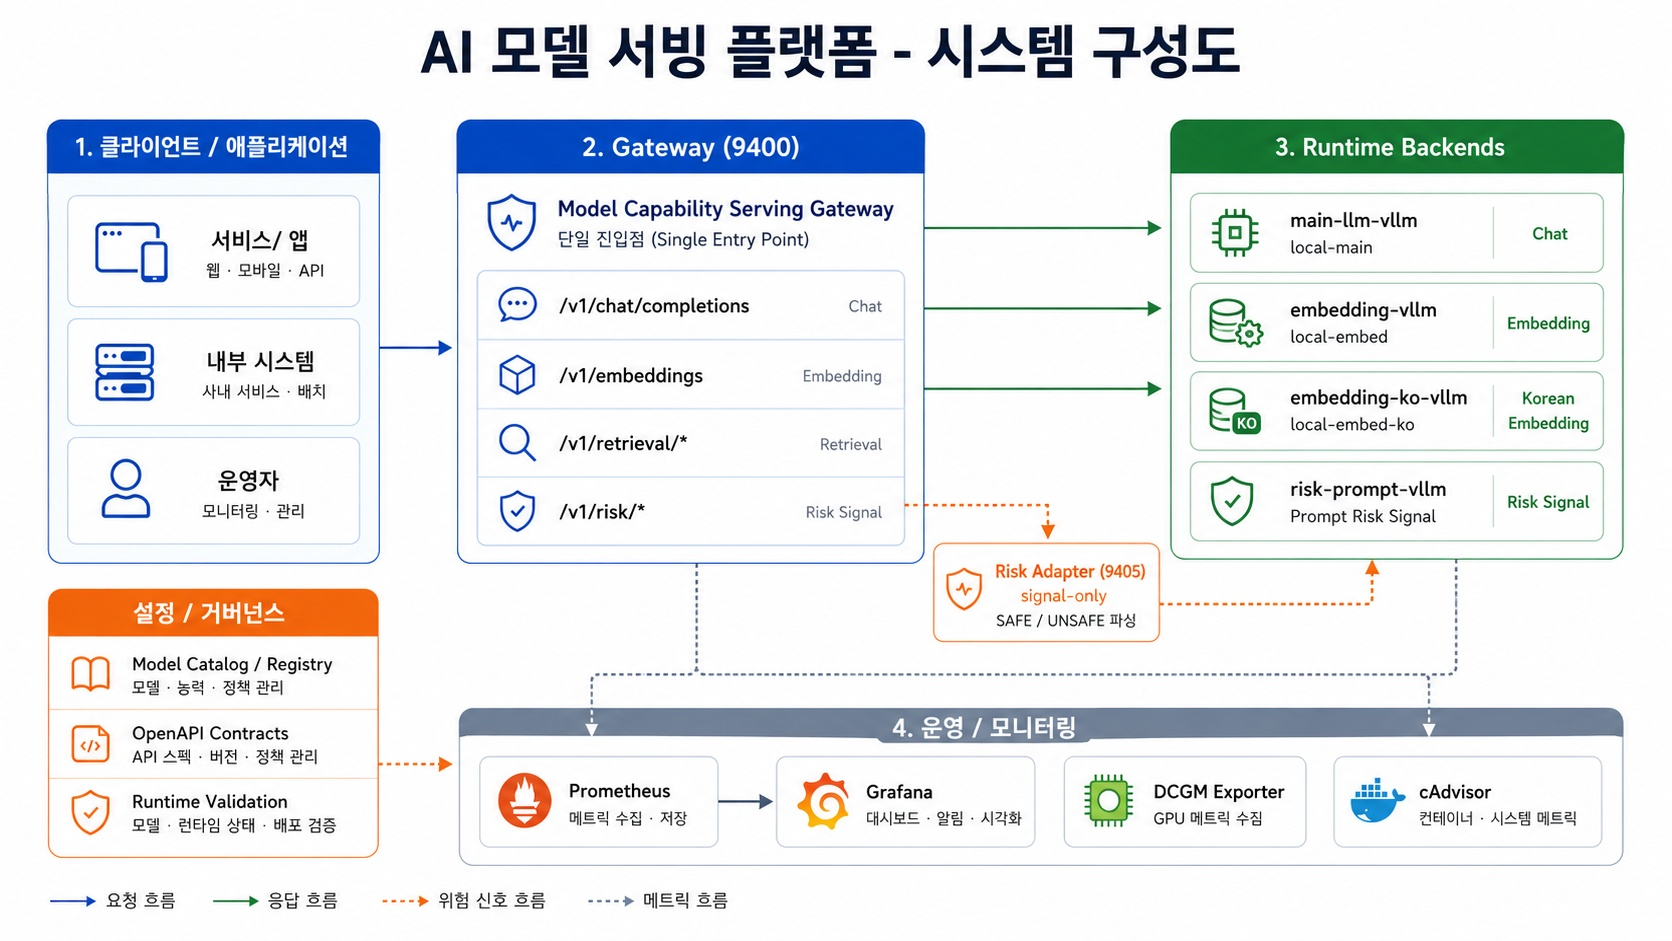
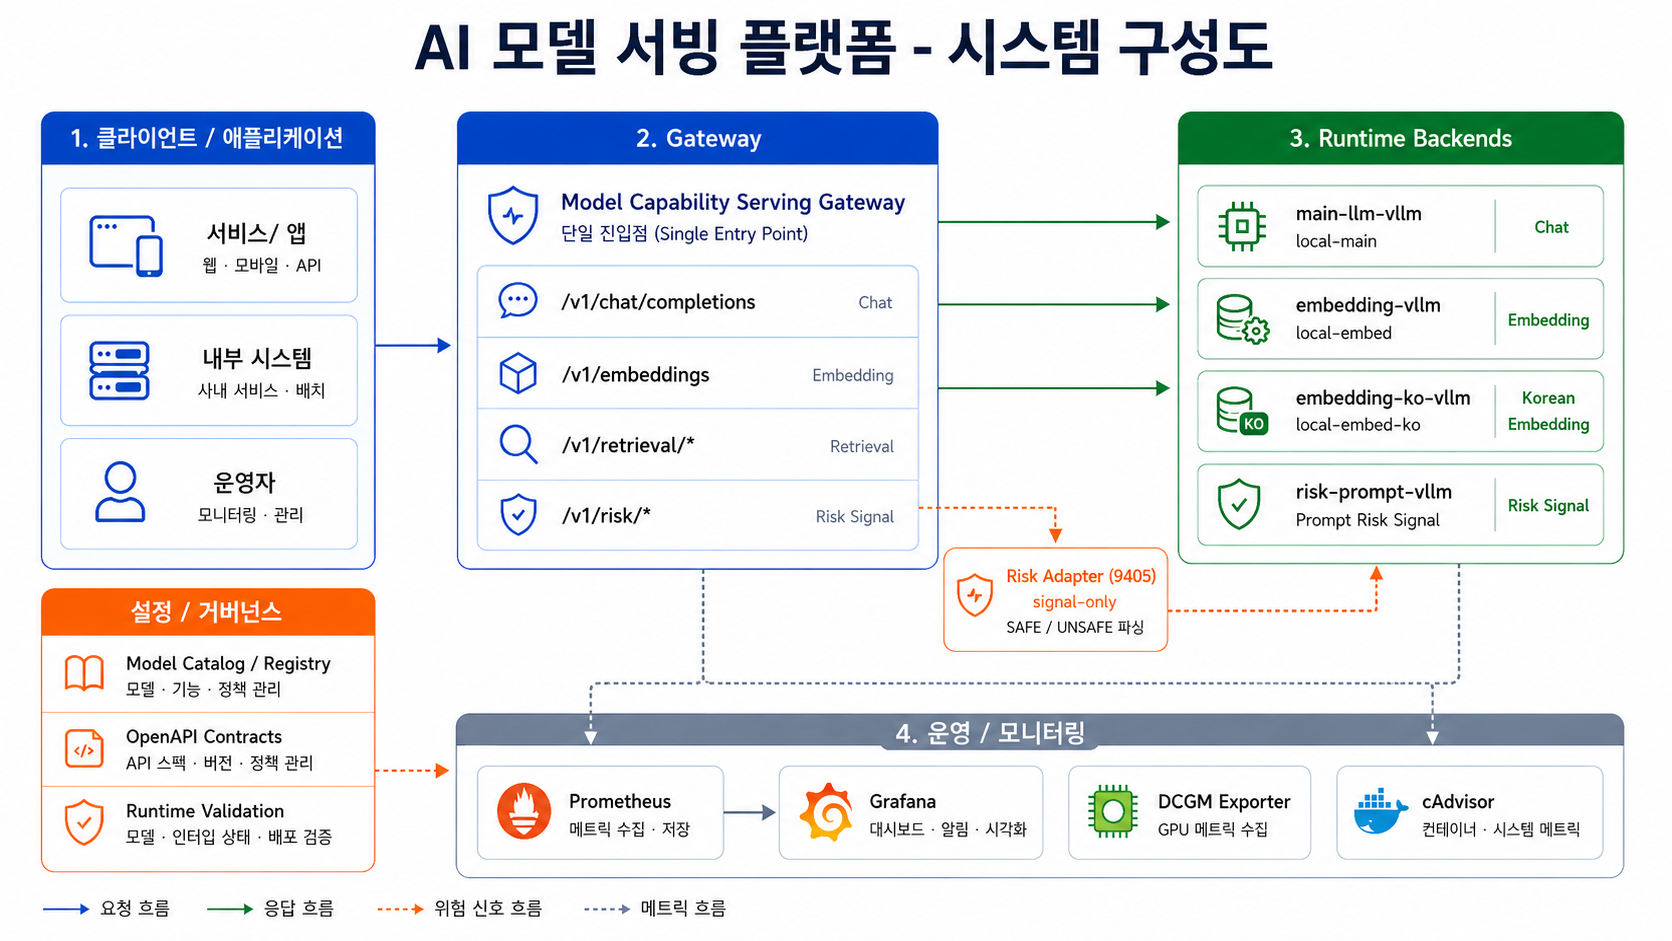
fix: copy 작업 롤백 preview copy -> raw copy와 동일한 작업으로 변경

Changed region(s): [[0.0, 0.0, 0.9952, 0.9862], [0.1244, 0.3698, 0.2177, 0.4315]]

diff --git a/src/ai_model_serving/docs_ui.py b/src/ai_model_serving/docs_ui.py
@@ -16,133 +16,70 @@ def scalar_html(openapi_url: str, title: str) -> str:
     <title>{title}</title>
     <meta charset="utf-8" />
     <meta name="viewport" content="width=device-width, initial-scale=1" />
-    <style>
-      body {{
-        margin: 0;
-      }}
-      .docs-toolbar {{
-        position: sticky;
-        top: 0;
-        z-index: 1000;
-        display: flex;
-        gap: 12px;
-        align-items: center;
-        padding: 8px 16px;
-        border-bottom: 1px solid #E5E7EB;
-        background: #FFFFFF;
-        font-family: system-ui, -apple-system, BlinkMacSystemFont, "Segoe UI", sans-serif;
-        font-size: 13px;
-        color: #374151;
-      }}
-      .docs-toolbar button {{
-        border: 1px solid #D1D5DB;
-        border-radius: 6px;
-        background: #F9FAFB;
-        padding: 5px 10px;
-        cursor: pointer;
-      }}
-      .docs-toolbar button:disabled {{
-        opacity: 0.45;
-        cursor: not-allowed;
-      }}
-      .docs-toolbar .notice {{
-        color: #6B7280;
-      }}
-    </style>
+    <style>body {{ margin: 0; }}</style>
   </head>
   <body>
-    <div class="docs-toolbar">
-      <button id="copy-raw-response" disabled>Copy raw response</button>
-      <span id="copy-raw-status" class="notice">
-        긴 응답은 Preview Copy 대신 Raw 또는 Copy raw response를 사용하세요.
-      </span>
-    </div>
-
     <div id="api-reference"></div>
-
     <script src="https://cdn.jsdelivr.net/npm/@scalar/api-reference@{SCALAR_VERSION}"></script>
     <script>
       const OPENAPI_URL = {json.dumps(openapi_url)};
       let lastRawResponse = null;
+      let overrideNextWrite = false;
 
-      const copyButton = document.getElementById("copy-raw-response");
-      const statusLabel = document.getElementById("copy-raw-status");
-
-      function normalizeUrl(input) {{
-        try {{
-          if (typeof input === "string") {{
-            return new URL(input, window.location.href);
-          }}
-          if (input && input.url) {{
-            return new URL(input.url, window.location.href);
-          }}
-        }} catch (_) {{}}
-        return null;
-      }}
+      const originalWriteText = navigator.clipboard.writeText.bind(navigator.clipboard);
 
       function isOpenApiDocumentRequest(input) {{
-        const requestUrl = normalizeUrl(input);
-        const specUrl = new URL(OPENAPI_URL, window.location.href);
-        return requestUrl && requestUrl.pathname === specUrl.pathname;
+        try {{
+          const reqUrl = new URL(typeof input === "string" ? input : input.url, window.location.href);
+          const specUrl = new URL(OPENAPI_URL, window.location.href);
+          return reqUrl.pathname === specUrl.pathname;
+        }} catch (_) {{ return false; }}
       }}
 
       function isStreamingRequest(init) {{
         try {{
-          if (!init || !init.body || typeof init.body !== "string") {{
-            return false;
-          }}
-          const body = JSON.parse(init.body);
-          return body && body.stream === true;
-        }} catch (_) {{
-          return false;
-        }}
+          if (!init?.body || typeof init.body !== "string") return false;
+          return JSON.parse(init.body)?.stream === true;
+        }} catch (_) {{ return false; }}
       }}
 
       async function captureRawResponse(input, response) {{
-        if (isOpenApiDocumentRequest(input)) {{
-          return;
-        }}
-
+        if (isOpenApiDocumentRequest(input)) return;
         try {{
-          const cloned = response.clone();
-          const text = await cloned.text();
-
-          lastRawResponse = text;
-          copyButton.disabled = false;
-          statusLabel.textContent = `Raw response captured: HTTP ${{response.status}}`;
-        }} catch (_) {{
-          statusLabel.textContent = "Raw response capture failed. Raw 탭 또는 Download를 사용하세요.";
-        }}
+          lastRawResponse = await response.clone().text();
+        }} catch (_) {{}}
       }}
 
-      copyButton.addEventListener("click", async () => {{
-        if (!lastRawResponse) {{
-          return;
+      // Preview Copy 버튼 클릭을 가로채서 raw response를 복사하도록 한다.
+      // "copy as curl", "copy url" 등은 제외하고 일반 Copy만 대상으로 한다.
+      document.addEventListener("click", (e) => {{
+        if (!lastRawResponse) return;
+        const btn = e.target.closest("button, [role='button']");
+        if (!btn) return;
+        const label = (btn.getAttribute("aria-label") || btn.title || btn.textContent || "").toLowerCase().trim();
+        if (label.includes("copy") && !label.includes("curl") && !label.includes("url")) {{
+          overrideNextWrite = true;
+          setTimeout(() => {{ overrideNextWrite = false; }}, 300);
         }}
+      }}, true);
 
-        try {{
-          await navigator.clipboard.writeText(lastRawResponse);
-          statusLabel.textContent = "Raw response copied.";
-        }} catch (_) {{
-          statusLabel.textContent = "Clipboard copy failed. Raw 탭을 사용하세요.";
+      navigator.clipboard.writeText = async (text) => {{
+        if (overrideNextWrite && lastRawResponse) {{
+          overrideNextWrite = false;
+          return originalWriteText(lastRawResponse);
         }}
-      }});
+        return originalWriteText(text);
+      }};
 
       Scalar.createApiReference("#api-reference", {{
         url: OPENAPI_URL,
         theme: "default",
-        defaultHttpClient: {{
-          targetKey: "shell",
-          clientKey: "curl"
-        }},
+        defaultHttpClient: {{ targetKey: "shell", clientKey: "curl" }},
         customFetch: async (input, init) => {{
           if (isStreamingRequest(init)) {{
             lastRawResponse = null;
-            copyButton.disabled = true;
-            statusLabel.textContent = "Streaming 응답은 Copy raw response를 지원하지 않습니다. Raw 탭을 사용하세요.";
             return fetch(input, init);
           }}
-
           const response = await fetch(input, init);
           captureRawResponse(input, response);
           return response;
